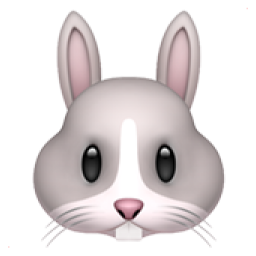
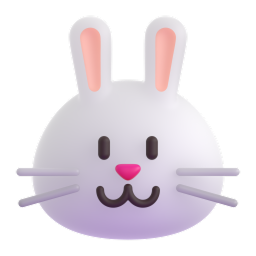
[Modify] Login, Splash 화면 토끼 이모지 수정
- RabbitFace 이미지 변경
- RabbitFace 컴포넌트 분리

diff --git a/src/pages/Login/Login.tsx b/src/pages/Login/Login.tsx
@@ -5,6 +5,7 @@ import Button from '@/components/Button/Button';
 import Checkbox from '@/components/Checkbox/Checkbox';
 import Icon from '@/components/Icon/Icon';
 import Input from '@/components/Input/Input';
+import RabbitFace from '@/components/RabbitFace/RabbitFace';
 import { useToast } from '@/hooks/useToast';
 
 function Login() {
@@ -19,8 +20,10 @@ function Login() {
 
   return (
     <div className="m-auto flex h-full max-w-[420px] flex-col justify-center pb-12">
-      <h1 className="fs-40 py-8 text-center font-semibold text-black">
-        🐰 폴짝 🐰
+      <h1 className="fs-40 flex items-center justify-center gap-2 py-8 text-center font-semibold whitespace-nowrap text-black">
+        <RabbitFace src="/images/rabbit_face.png" alt="토끼 얼굴" />
+        폴짝
+        <RabbitFace src="/images/rabbit_face.png" alt="토끼 얼굴" />
       </h1>
       <div className="fs-14 text-gray05 font-regular pb-4 text-center">
         <p>로그인이 필요한 서비스 입니다.</p>

diff --git a/src/pages/Splash/Splash.tsx b/src/pages/Splash/Splash.tsx
@@ -1,12 +1,4 @@
-type RabbitFaceProps = {
-  src: string;
-  alt: string;
-};
-const RabbitFace = ({ src, alt }: RabbitFaceProps) => (
-  <span className="w-[48px]" aria-hidden={true}>
-    <img src={src} alt={alt} className="h-full w-full" />
-  </span>
-);
+import RabbitFace from '@/components/RabbitFace/RabbitFace';
 
 function Splash() {
   return (

diff --git a/src/components/RabbitFace/RabbitFace.tsx b/src/components/RabbitFace/RabbitFace.tsx
@@ -1,0 +1,14 @@
+type RabbitFaceProps = {
+  src: string;
+  alt: string;
+};
+
+function RabbitFace({ src, alt }: RabbitFaceProps) {
+  return (
+    <span className="w-[48px]" aria-hidden={true}>
+      <img src={src} alt={alt} className="h-full w-full" />
+    </span>
+  );
+}
+
+export default RabbitFace;
